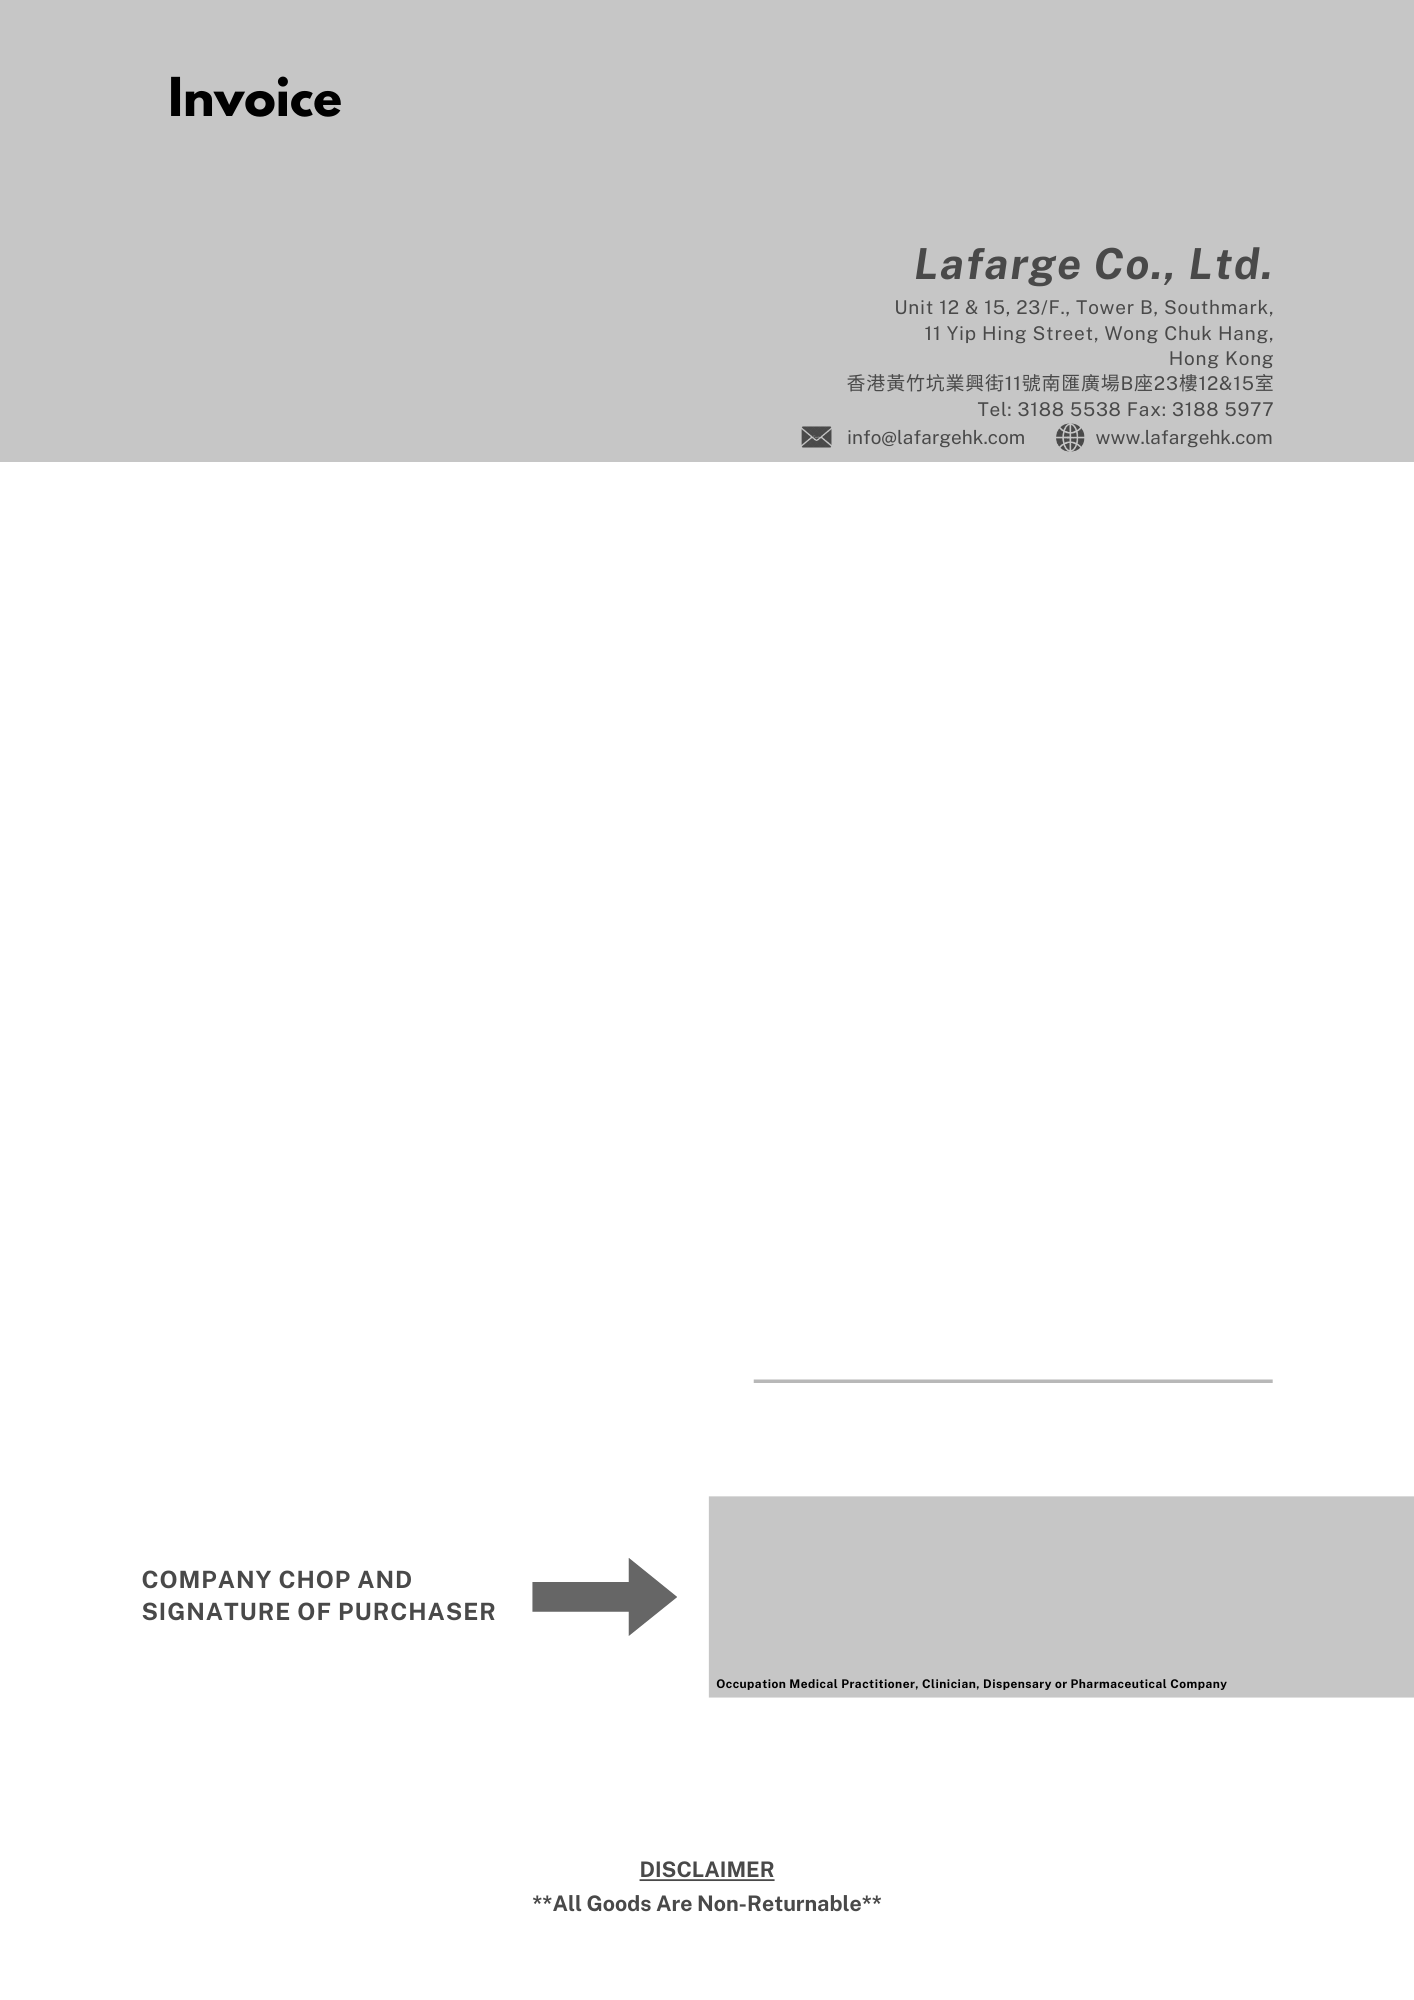
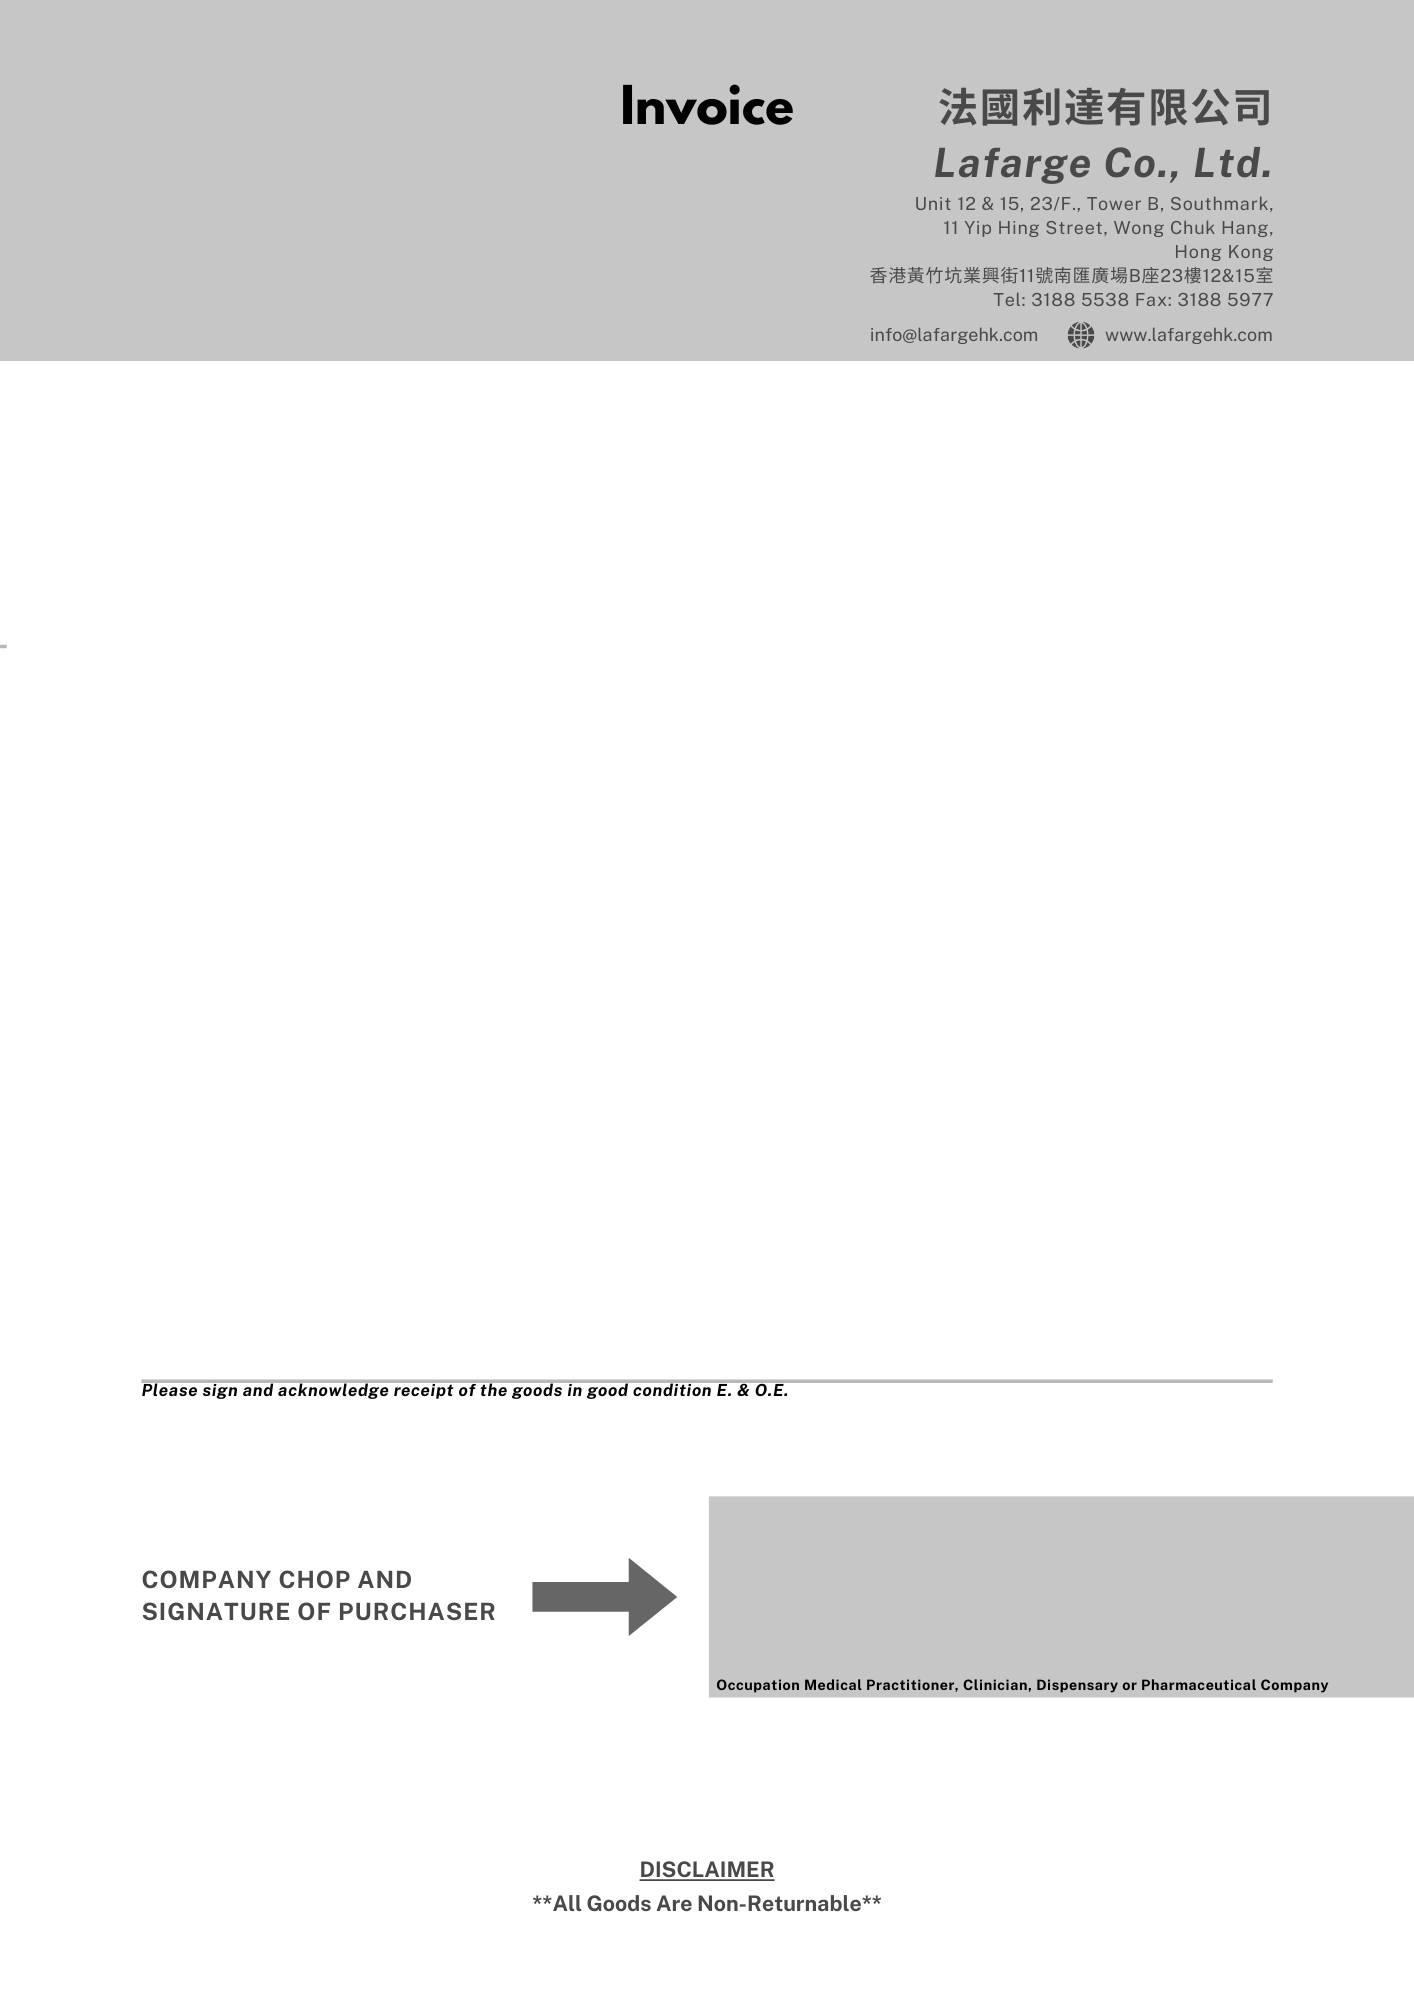
update styling

diff --git a/lafarge/invoice/pdf_utils.py b/lafarge/invoice/pdf_utils.py
@@ -29,29 +29,29 @@ def draw_invoice_page(pdf, invoice, copy_type):
 
     # Set title font and position based on the copy type
     if copy_type == "Customer Copy" or copy_type == "Company Copy":
-        pdf.setFont("Helvetica-Bold", 20)
-        pdf.drawString(385, height - 50, copy_type)
+        pdf.setFont("Helvetica-Bold", 15)
+        pdf.drawString(50, height - 73, copy_type)
 
     elif copy_type == "Original":
-        pdf.setFont("Helvetica-Bold", 20)
-        pdf.drawString(460, height - 50, copy_type)
+        pdf.setFont("Helvetica-Bold", 15)
+        pdf.drawString(50, height - 73, copy_type)
 
     # Customer information
     address_lines = [line.strip() for line in invoice.customer.address.split("\n") if line.strip()]
     office_hour_lines = [line.strip() for line in invoice.customer.office_hour.split("\n") if line.strip()]
-    pdf.setFont("Helvetica-Bold", 14)
+    pdf.setFont("Helvetica-Bold", 10)
     if prefix_check(invoice.customer.name.lower()):
-        pdf.drawString(70, height - 215, f"SOLD TO: {invoice.customer.name}")
+        pdf.drawString(50, height - 165, f"SOLD TO: {invoice.customer.name}")
     else:
-        pdf.drawString(70, height - 215, f"SOLD TO: Dr. {invoice.customer.name}")
+        pdf.drawString(50, height - 165, f"SOLD TO: Dr. {invoice.customer.name}")
     if invoice.customer.care_of:
         if prefix_check(invoice.customer.care_of.lower()):
-            pdf.drawString(140, height - 235, f"C/O: {invoice.customer.care_of}")
+            pdf.drawString(100, height - 185, f"C/O: {invoice.customer.care_of}")
         else:
-            pdf.drawString(140, height - 235, f"C/O: Dr. {invoice.customer.care_of}")
-    y_position = height - 255
+            pdf.drawString(100, height - 185, f"C/O: Dr. {invoice.customer.care_of}")
+    y_position = height - 205
     # Create a TextObject for multi-line address
-    text_object = pdf.beginText(70, y_position)
+    text_object = pdf.beginText(50, y_position)
     text_object.setFont("Helvetica", 10)
     for line in address_lines:
         text_object.textLine(line)
@@ -73,13 +73,13 @@ def draw_invoice_page(pdf, invoice, copy_type):
     pdf.drawText(text_object)
 
     pdf.setFont("Helvetica-Bold", 14)
-    pdf.drawString(70, height - 70, f"Invoice No. : {invoice.number}")
+    pdf.drawString(50, height - 53, f"Invoice No. : {invoice.number}")
     # Salesman and Date
-    pdf.setFont("Helvetica-Bold", 8)
-    pdf.drawString(70, height - 145 , f"Date : ")
-    pdf.drawString(70, height - 165, f"Salesman : {invoice.salesman.name}")
+    pdf.setFont("Helvetica-Bold", 10)
+    pdf.drawString(50, height - 105, f"Date : ")
+    pdf.drawString(50, height - 125, f"Salesman : {invoice.salesman.name}")
     if copy_type != "Poison Form":
-        pdf.drawString(70, height - 185, f"Terms : {invoice.terms}")
+        pdf.drawString(50, height - 145, f"Terms : {invoice.terms}")
 
     # Table for Invoice Items
     if copy_type == "Poison Form":
@@ -113,7 +113,7 @@ def draw_invoice_page(pdf, invoice, copy_type):
 
         # Position the table
         table.wrapOn(pdf, width, height)
-        table.drawOn(pdf, 175, height - 450)
+        table.drawOn(pdf, 155, height - 400)
 
     else:
         # Define the data for the table
@@ -158,7 +158,7 @@ def draw_invoice_page(pdf, invoice, copy_type):
         table_width, table_height = table.wrap(0, 0)  # Get actual table height
 
         # Draw the table, positioning it to expand downward
-        table.drawOn(pdf, 50, height - 350 - table_height)
+        table.drawOn(pdf, 50, height - 300 - table_height)
 
         # Add total price at the bottom
         pdf.setFont("Helvetica-Bold", 14)
